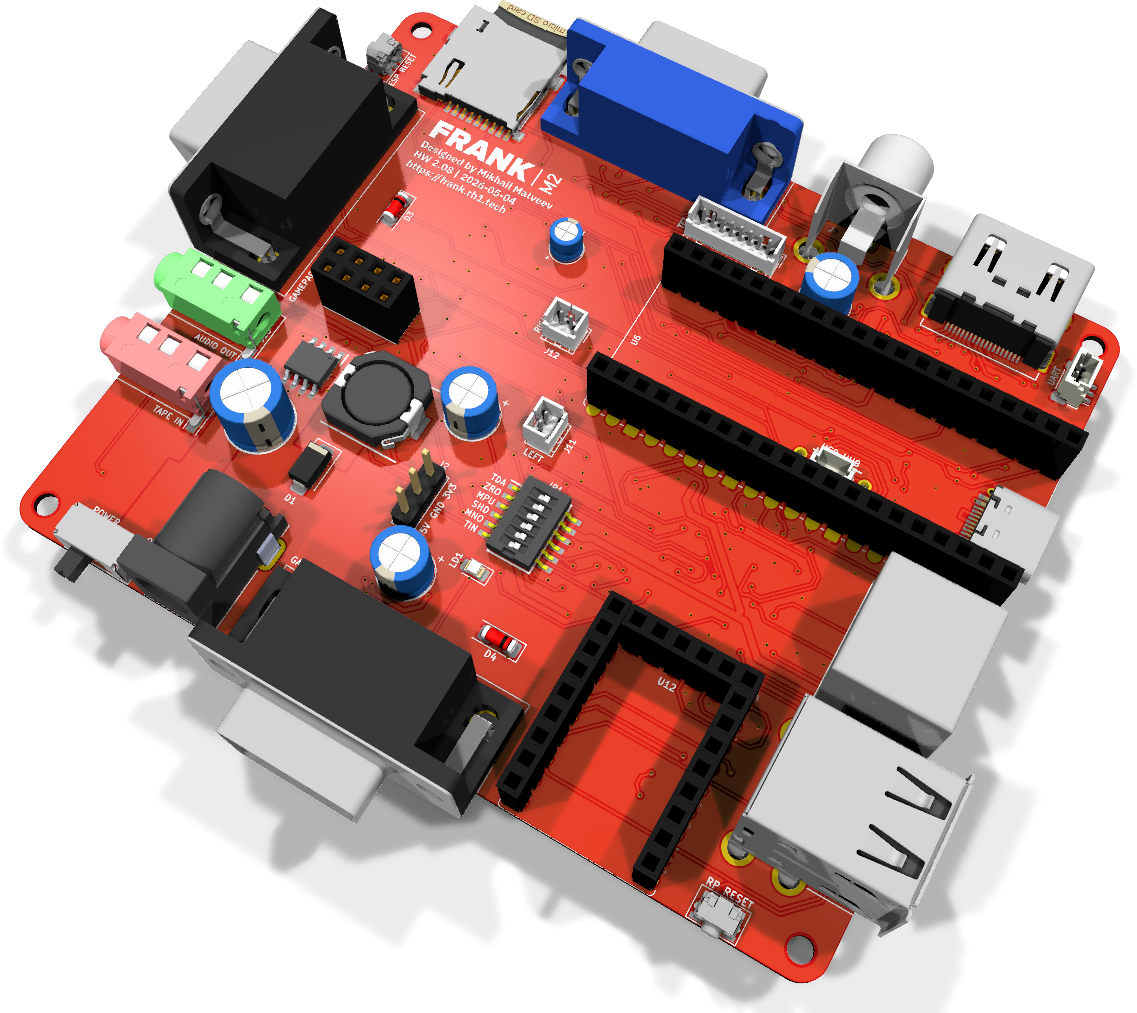
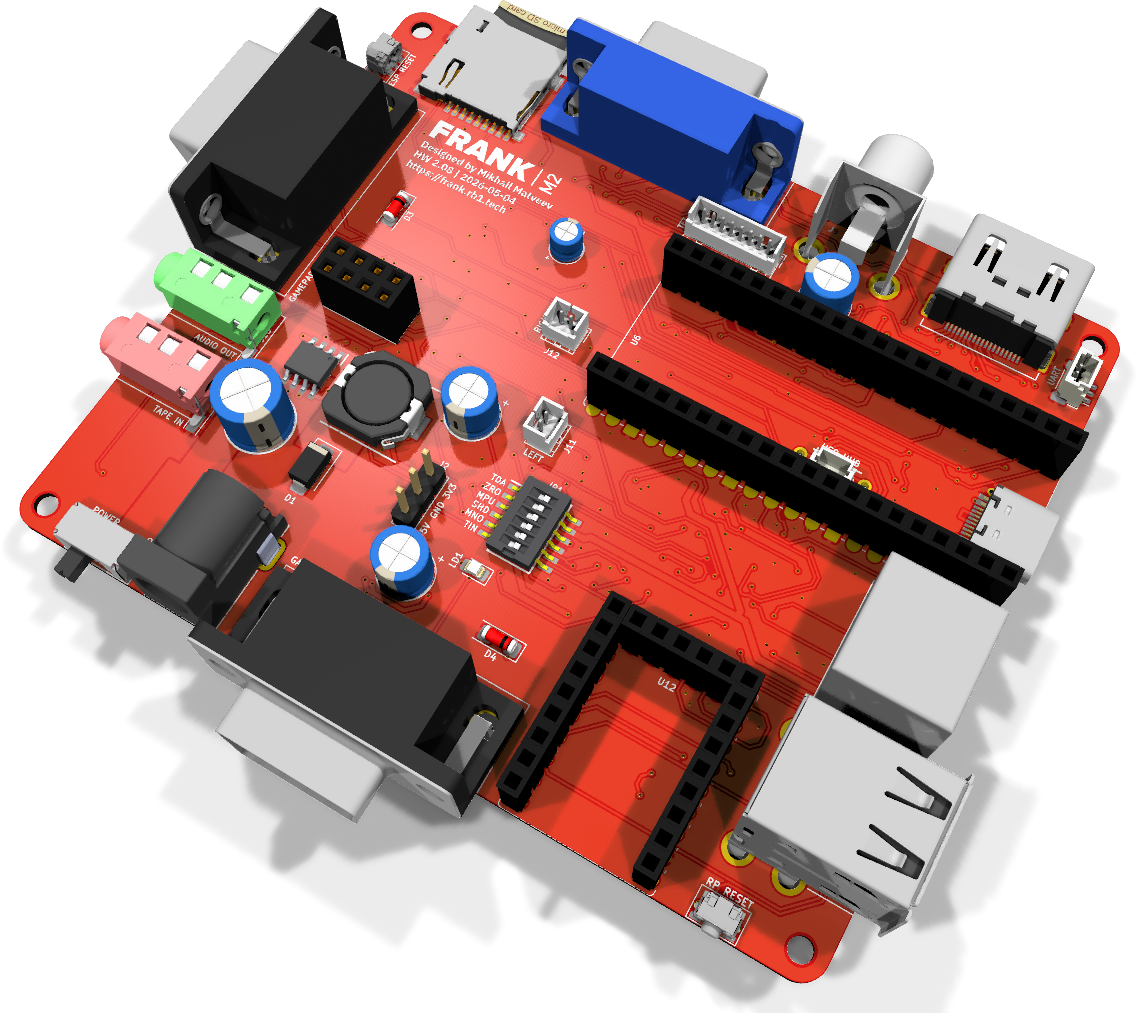
docs: promote FRANK PGA as the flagship, FRANK as socketed alternative
Reorder boards table and comparison columns in README so FRANK PGA leads,
update both per-board guide intros to match, and normalize BOM "Reference
style" headers to "Ref". Includes refreshed 3D renders for FRANK, FRANK PGA
and MiniFRANK.

diff --git a/README.md b/README.md
@@ -1,6 +1,6 @@
 # FRANK
 
-FRANK is a hardware emulation platform built around the Raspberry Pi RP2350 (Pico 2 modules and RP2350A QFN). RP2040 / Pico is supported on FRANK's socket as well, but in practice only a handful of firmware (mainly the older ZX Spectrum cores) still target RP2040. Everything modern — IBM PC, NES, SNES, Genesis, the DOOM / id Tech 1 ports, frank-os, and so on — is RP2350-only.
+FRANK is a hardware emulation platform built around the Raspberry Pi RP2350 (Pico 2 modules and RP2350A QFN). RP2040 / Pico is supported on FRANK's socket as well, but in practice only a handful of firmware (mainly the older ZX Spectrum cores) still target RP2040. Everything modern — IBM PC, NES, SNES, Genesis, the DOOM / id Tech 1 ports, FRANK OS, and so on — is RP2350-only.
 
 It started as a fork of the [Murmulator](https://murmulator.tilda.ws/) project by [Alex Ekb](https://t.me/Alex_Eburg). Over time it picked up extra video outputs, audio paths, USB and WiFi support, and several form factors.
 
@@ -18,8 +18,8 @@ Four maintained boards, each with its own KiCad project, gerbers, BOM and assemb
 
 | Board | Render | PCB size | Compute | Best for |
 |-------|:------:|----------|---------|----------|
-| [FRANK](./hardware/frank) | <img src="./docs/boards/3d/frank-iso.png" alt="FRANK" width="220"> | 99.5 × 83.1 mm | Raspberry Pi Pico / Pico 2 (socket) + RP2040-Zero | The flagship. Easiest to solder, every output exposed. |
-| [FRANK PGA](./hardware/frank_pga) | <img src="./docs/boards/3d/frank_pga-iso.png" alt="FRANK PGA" width="220"> | 99.5 × 83.1 mm | Pimoroni PGA2350 (RP2350A module) | Same outputs as FRANK, built on the PGA2350 module with a USB multiplexer. |
+| [FRANK PGA](./hardware/frank_pga) | <img src="./docs/boards/3d/frank_pga-iso.png" alt="FRANK PGA" width="220"> | 99.5 × 83.1 mm | Pimoroni PGA2350 (RP2350A module) | The flagship. Every output on one PCB, native USB host with multiplexer, ESD-protected. |
+| [FRANK](./hardware/frank) | <img src="./docs/boards/3d/frank-iso.png" alt="FRANK" width="220"> | 99.5 × 83.1 mm | Raspberry Pi Pico / Pico 2 (socket) + RP2040-Zero | Socketed alternative. Easiest to solder, swap Pico modules at will, USB-to-PS/2 helper on board. |
 | [MiniFRANK](./hardware/minifrank) | <img src="./docs/boards/3d/minifrank-iso.png" alt="MiniFRANK" width="220"> | 85.6 × 53.98 mm | RP2350A QFN, on-board | Compact full-feature board with WiFi, VGA, HDMI and one gamepad port. |
 | [MicroFRANK](./hardware/microfrank) | <img src="./docs/boards/3d/microfrank-iso.png" alt="MicroFRANK" width="220"> | 32 × 74 mm | RP2350A QFN, on-board | Smallest board. HDMI only, no PS/2, no gamepad. Good for embedded use. |
 
@@ -27,10 +27,10 @@ All four boards use the M2 GPIO layout, so any firmware build for M2 runs on all
 
 ### Comparison table
 
-| Feature | FRANK | FRANK PGA | MiniFRANK | MicroFRANK |
-|---------|:-----:|:---------:|:---------:|:----------:|
-| Compute module | Pico / Pico 2 (socket) | Pimoroni PGA2350 | RP2350A QFN on-board | RP2350A QFN on-board |
-| Helper MCU (RP2040-Zero, USB-to-PS/2 emulation) | Yes | — | — | — |
+| Feature | FRANK PGA | FRANK | MiniFRANK | MicroFRANK |
+|---------|:---------:|:-----:|:---------:|:----------:|
+| Compute module | Pimoroni PGA2350 | Pico / Pico 2 (socket) | RP2350A QFN on-board | RP2350A QFN on-board |
+| Helper MCU (RP2040-Zero, USB-to-PS/2 emulation) | — | Yes | — | — |
 | On-board flash | via module | via module | W25Q128 (16 MB) | W25Q128 (16 MB) |
 | On-board PSRAM | via module | via module | 8 MB | 8 MB |
 | HDMI output | Yes | Yes | Yes | Yes |
@@ -38,12 +38,12 @@ All four boards use the M2 GPIO layout, so any firmware build for M2 runs on all
 | Composite (RCA) | Yes | Yes | — | — |
 | TFT display header | Yes | Yes | — | — |
 | Hardware PS/2 port | Yes | Yes | Yes | — |
-| USB-emulated PS/2 (RP2040-Zero) | Yes (extra) | — | — | — |
+| USB-emulated PS/2 (RP2040-Zero) | — | Yes (extra) | — | — |
 | Gamepad ports (DB9) | 2 | 2 | 1 | — |
 | Stacked USB Type-A host | Yes | Yes | Yes | Yes |
 | MW7211A USB hub | Yes | Yes | Yes | Yes |
-| USB host multiplexer | — | 74HC4052D | TS3USB221 | TS3USB221 |
-| USBLC6 ESD protection | — | Yes | Yes | Yes |
+| USB host multiplexer | 74HC4052D | — | TS3USB221 | TS3USB221 |
+| USBLC6 ESD protection | Yes | — | Yes | Yes |
 | ESP-01S WiFi socket | Yes | Yes | Yes | — |
 | Tape input (3.5 mm) | Yes | Yes | Yes | — |
 | Audio output | 3.5 mm jack | 3.5 mm jack | 3.5 mm jack | 3.5 mm jack |
@@ -151,8 +151,8 @@ software/      Pre-built reference firmware
 
 Each board has its own assembly and usage guide:
 
-- [FRANK assembly and usage guide](./docs/frank.md)
 - [FRANK PGA assembly and usage guide](./docs/frank_pga.md)
+- [FRANK assembly and usage guide](./docs/frank.md)
 - [MiniFRANK assembly and usage guide](./docs/minifrank.md)
 - [MicroFRANK assembly and usage guide](./docs/microfrank.md)
 

diff --git a/docs/frank.md b/docs/frank.md
@@ -4,7 +4,9 @@
   <img src="./boards/3d/frank-iso.png" alt="FRANK 3D render" width="640">
 </p>
 
-FRANK is the flagship full-size board. It uses a Raspberry Pi Pico (or Pico 2) in a socket as the main compute module. On top of the standard hardware PS/2 port, an extra RP2040-Zero on-board lets you plug in a USB keyboard or mouse and have it appear as a PS/2 device — so you can use either input type without swapping firmware. Components are 0805, so you can hand-solder the whole board with a basic iron and decent flux.
+FRANK is the socketed full-size board. It uses a Raspberry Pi Pico (or Pico 2) in a socket as the main compute module, so you can swap the brain at will — handy when you want to try Pico 2, Pico Plus 2 (with PSRAM), a Nyx 2, or any other Pico-pinout module on the same PCB. On top of the standard hardware PS/2 port, an extra RP2040-Zero on-board lets you plug in a USB keyboard or mouse and have it appear as a PS/2 device — so you can use either input type without swapping firmware. Components are 0805, so you can hand-solder the whole board with a basic iron and decent flux.
+
+If you want everything fixed on a single PCB instead, the flagship [FRANK PGA](./frank_pga.md) is the same outline with a soldered-on PGA2350 module, native USB host and ESD protection.
 
 - **PCB size:** 99.5 × 83.1 mm
 - **KiCad project:** [`hardware/frank/`](../hardware/frank)
@@ -42,7 +44,7 @@ The full pick-and-place BOM is in `bom.html`. Here is a summary by part class so
 
 ### Active parts
 
-| Reference style | Part | Qty | Notes |
+| Ref | Part | Qty | Notes |
 |-----------------|------|-----|-------|
 | U | Raspberry Pi Pico / Pico 2 | 1 | Socketed, not soldered. Use Pico Plus 2 for built-in PSRAM. |
 | U | RP2040-Zero module | 1 | Soldered as a daughterboard. Handles USB→PS/2. |

diff --git a/docs/frank_pga.md b/docs/frank_pga.md
@@ -4,9 +4,9 @@
   <img src="./boards/3d/frank_pga-iso.png" alt="FRANK PGA 3D render" width="640">
 </p>
 
-FRANK PGA shares the board outline and feature set of FRANK, but it is built around the [Pimoroni PGA2350](https://shop.pimoroni.com/products/pga2350) module instead of a socketed Pico. The PGA2350 is an RP2350A board with on-module flash and PSRAM that drops onto a 47-pin grid. Without the Pico socket the board sits flatter, and native USB can run through a multiplexer to the on-board USB hub.
+FRANK PGA is the flagship full-size board. It is built around the [Pimoroni PGA2350](https://shop.pimoroni.com/products/pga2350) module — an RP2350A board with on-module flash and 8 MB PSRAM that drops onto a 47-pin grid. Without a Pico socket the board sits flatter, native USB runs through a multiplexer to the on-board USB hub, and ESD protection plus dedicated reset / boot buttons are included.
 
-If you are unsure which to build, FRANK is friendlier to first-time solderers. FRANK PGA suits builders who want everything on one PCB and don't mind soldering a PGA-style module.
+If you want a socketed alternative, [FRANK](./frank.md) shares the same outline and feature set but uses a Raspberry Pi Pico / Pico 2 in a socket and is friendlier to first-time solderers.
 
 - **PCB size:** 99.5 × 83.1 mm
 - **KiCad project:** [`hardware/frank_pga/`](../hardware/frank_pga)
@@ -54,7 +54,7 @@ The full pick-and-place BOM is in `bom.html`. Headline counts:
 
 ### Active parts
 
-| Reference style | Part | Qty | Notes |
+| Ref | Part | Qty | Notes |
 |-----------------|------|-----|-------|
 | U | Pimoroni PGA2350 | 1 | Soldered onto the PGA pads. Has flash + PSRAM on-module. |
 | U | TDA1387T | 1 | DIP-8 audio DAC |

diff --git a/docs/minifrank.md b/docs/minifrank.md
@@ -43,7 +43,7 @@ The full pick-and-place BOM is in `bom.html`. Headline counts:
 
 ### Active parts
 
-| Reference style | Part | Qty | Notes |
+| Ref | Part | Qty | Notes |
 |-----------------|------|-----|-------|
 | U | RP2350A | 1 | QFN-60. Hot-air or hot-plate. |
 | U | W25Q128JVS | 1 | SOIC-8 flash |

diff --git a/docs/microfrank.md b/docs/microfrank.md
@@ -36,7 +36,7 @@ The full pick-and-place BOM is in `bom.html`.
 
 ### Active parts
 
-| Reference style | Part | Qty | Notes |
+| Ref | Part | Qty | Notes |
 |-----------------|------|-----|-------|
 | U | RP2350A | 1 | QFN-60 |
 | U | W25Q128JVS | 1 | SOIC-8 flash |
